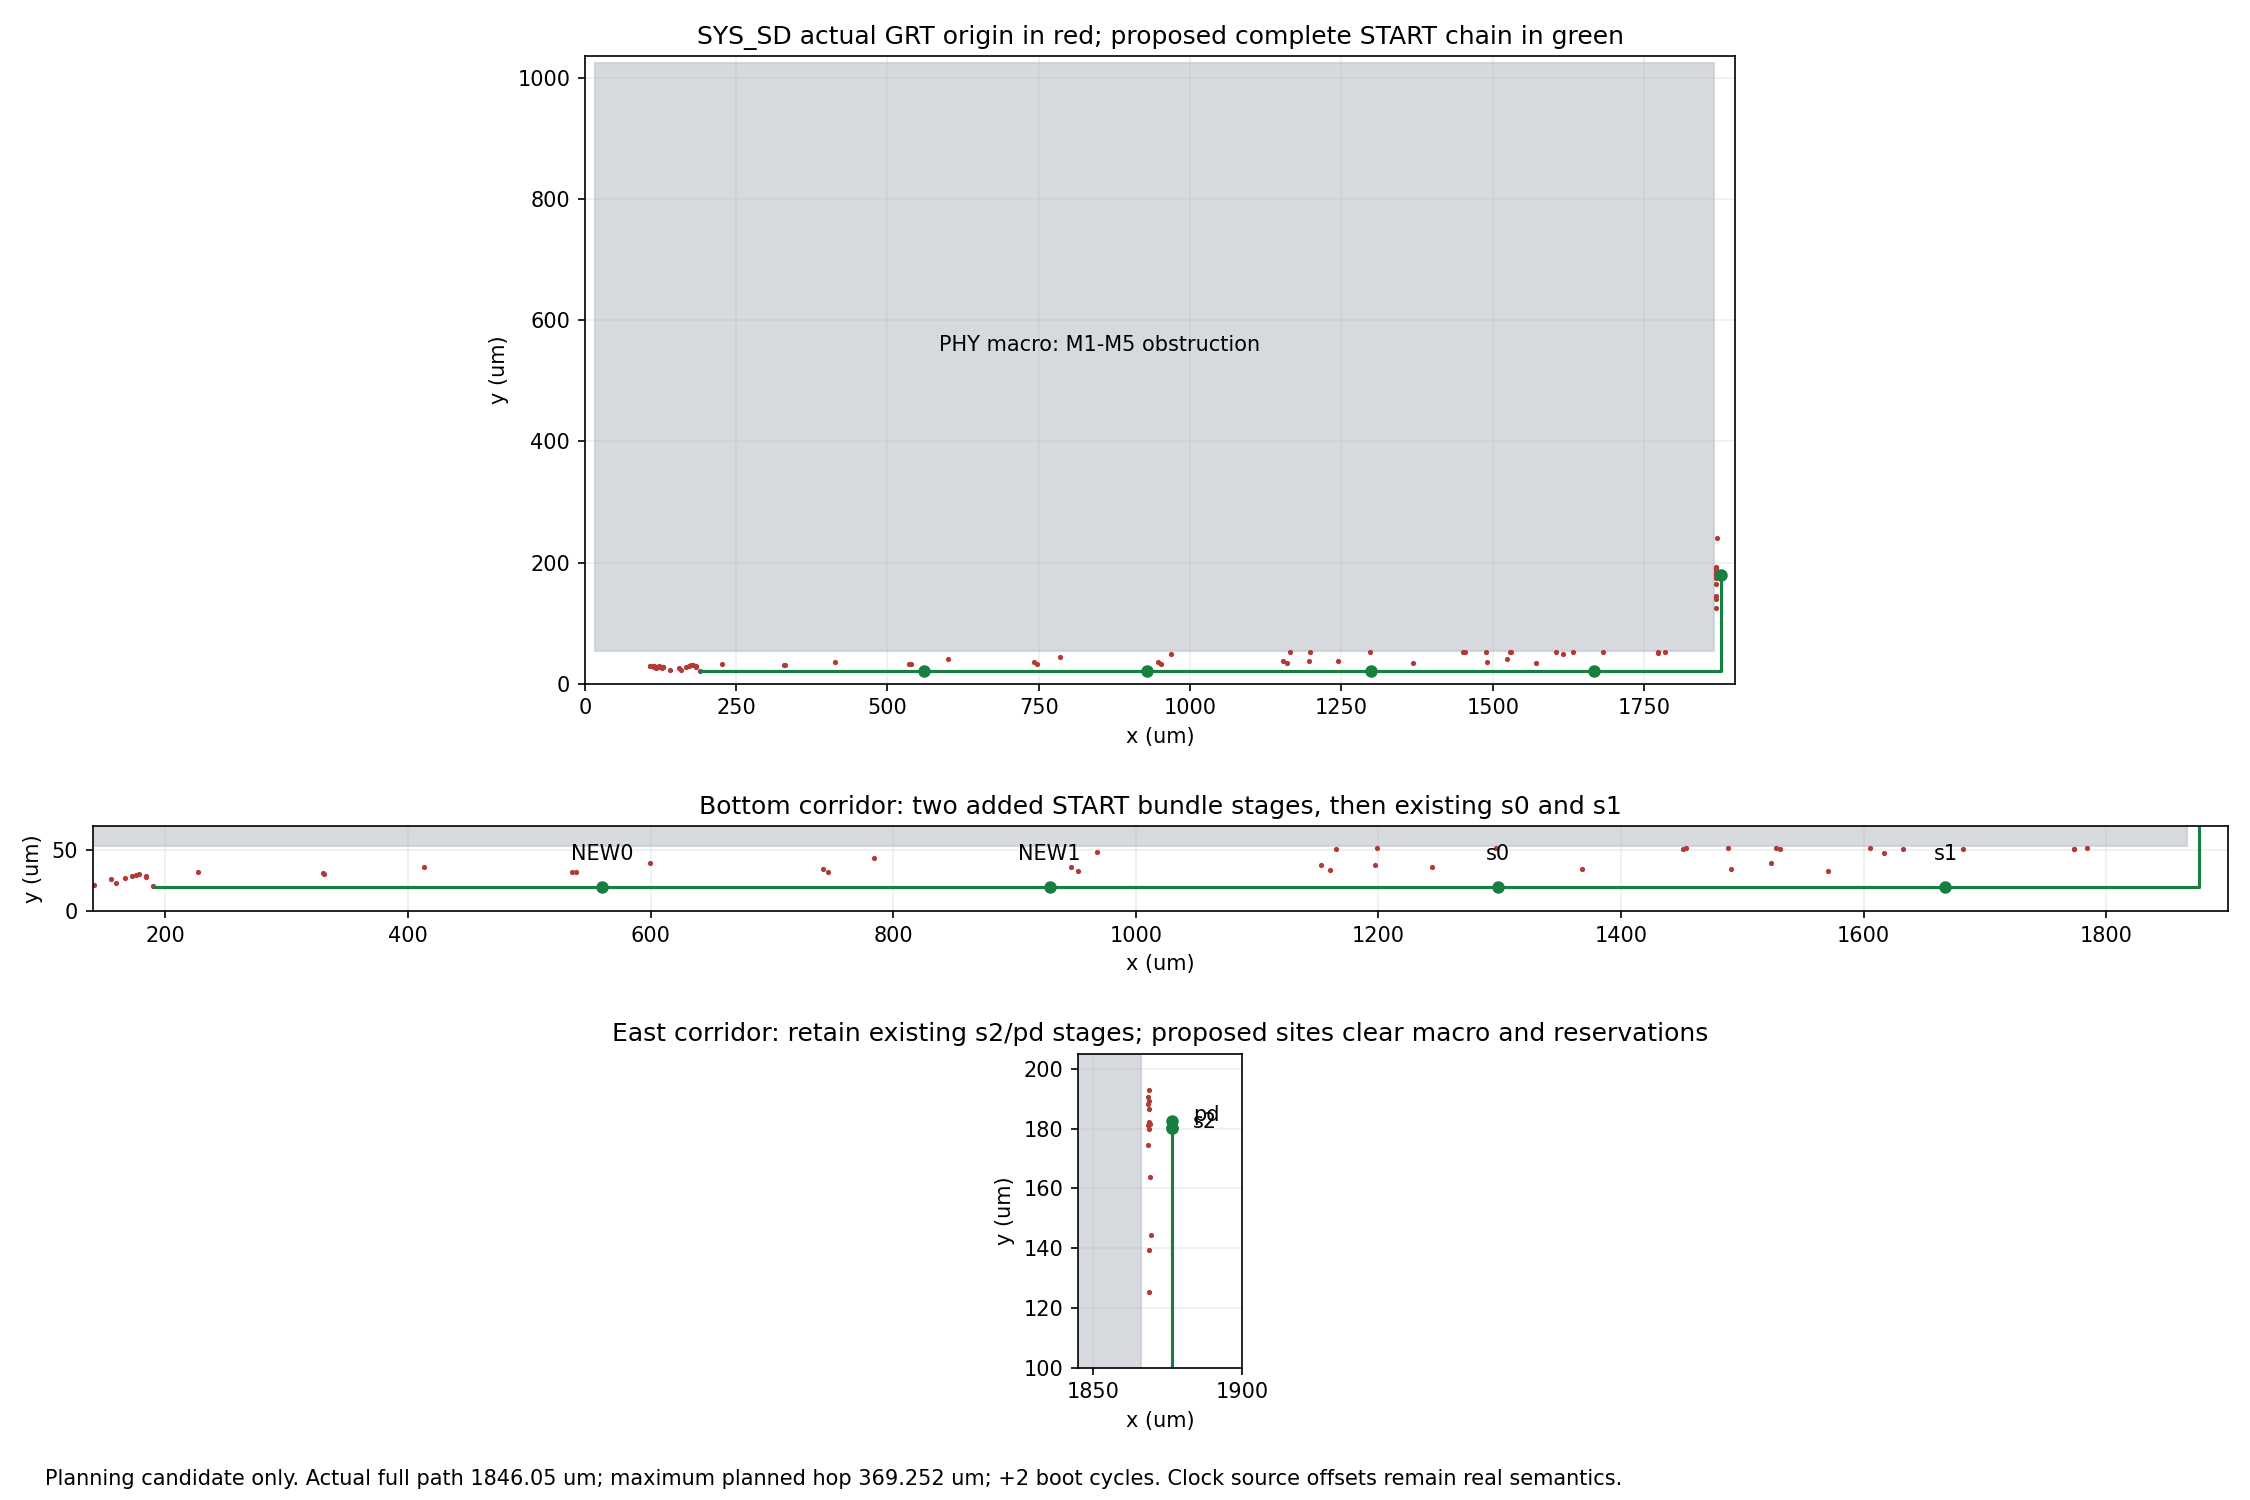
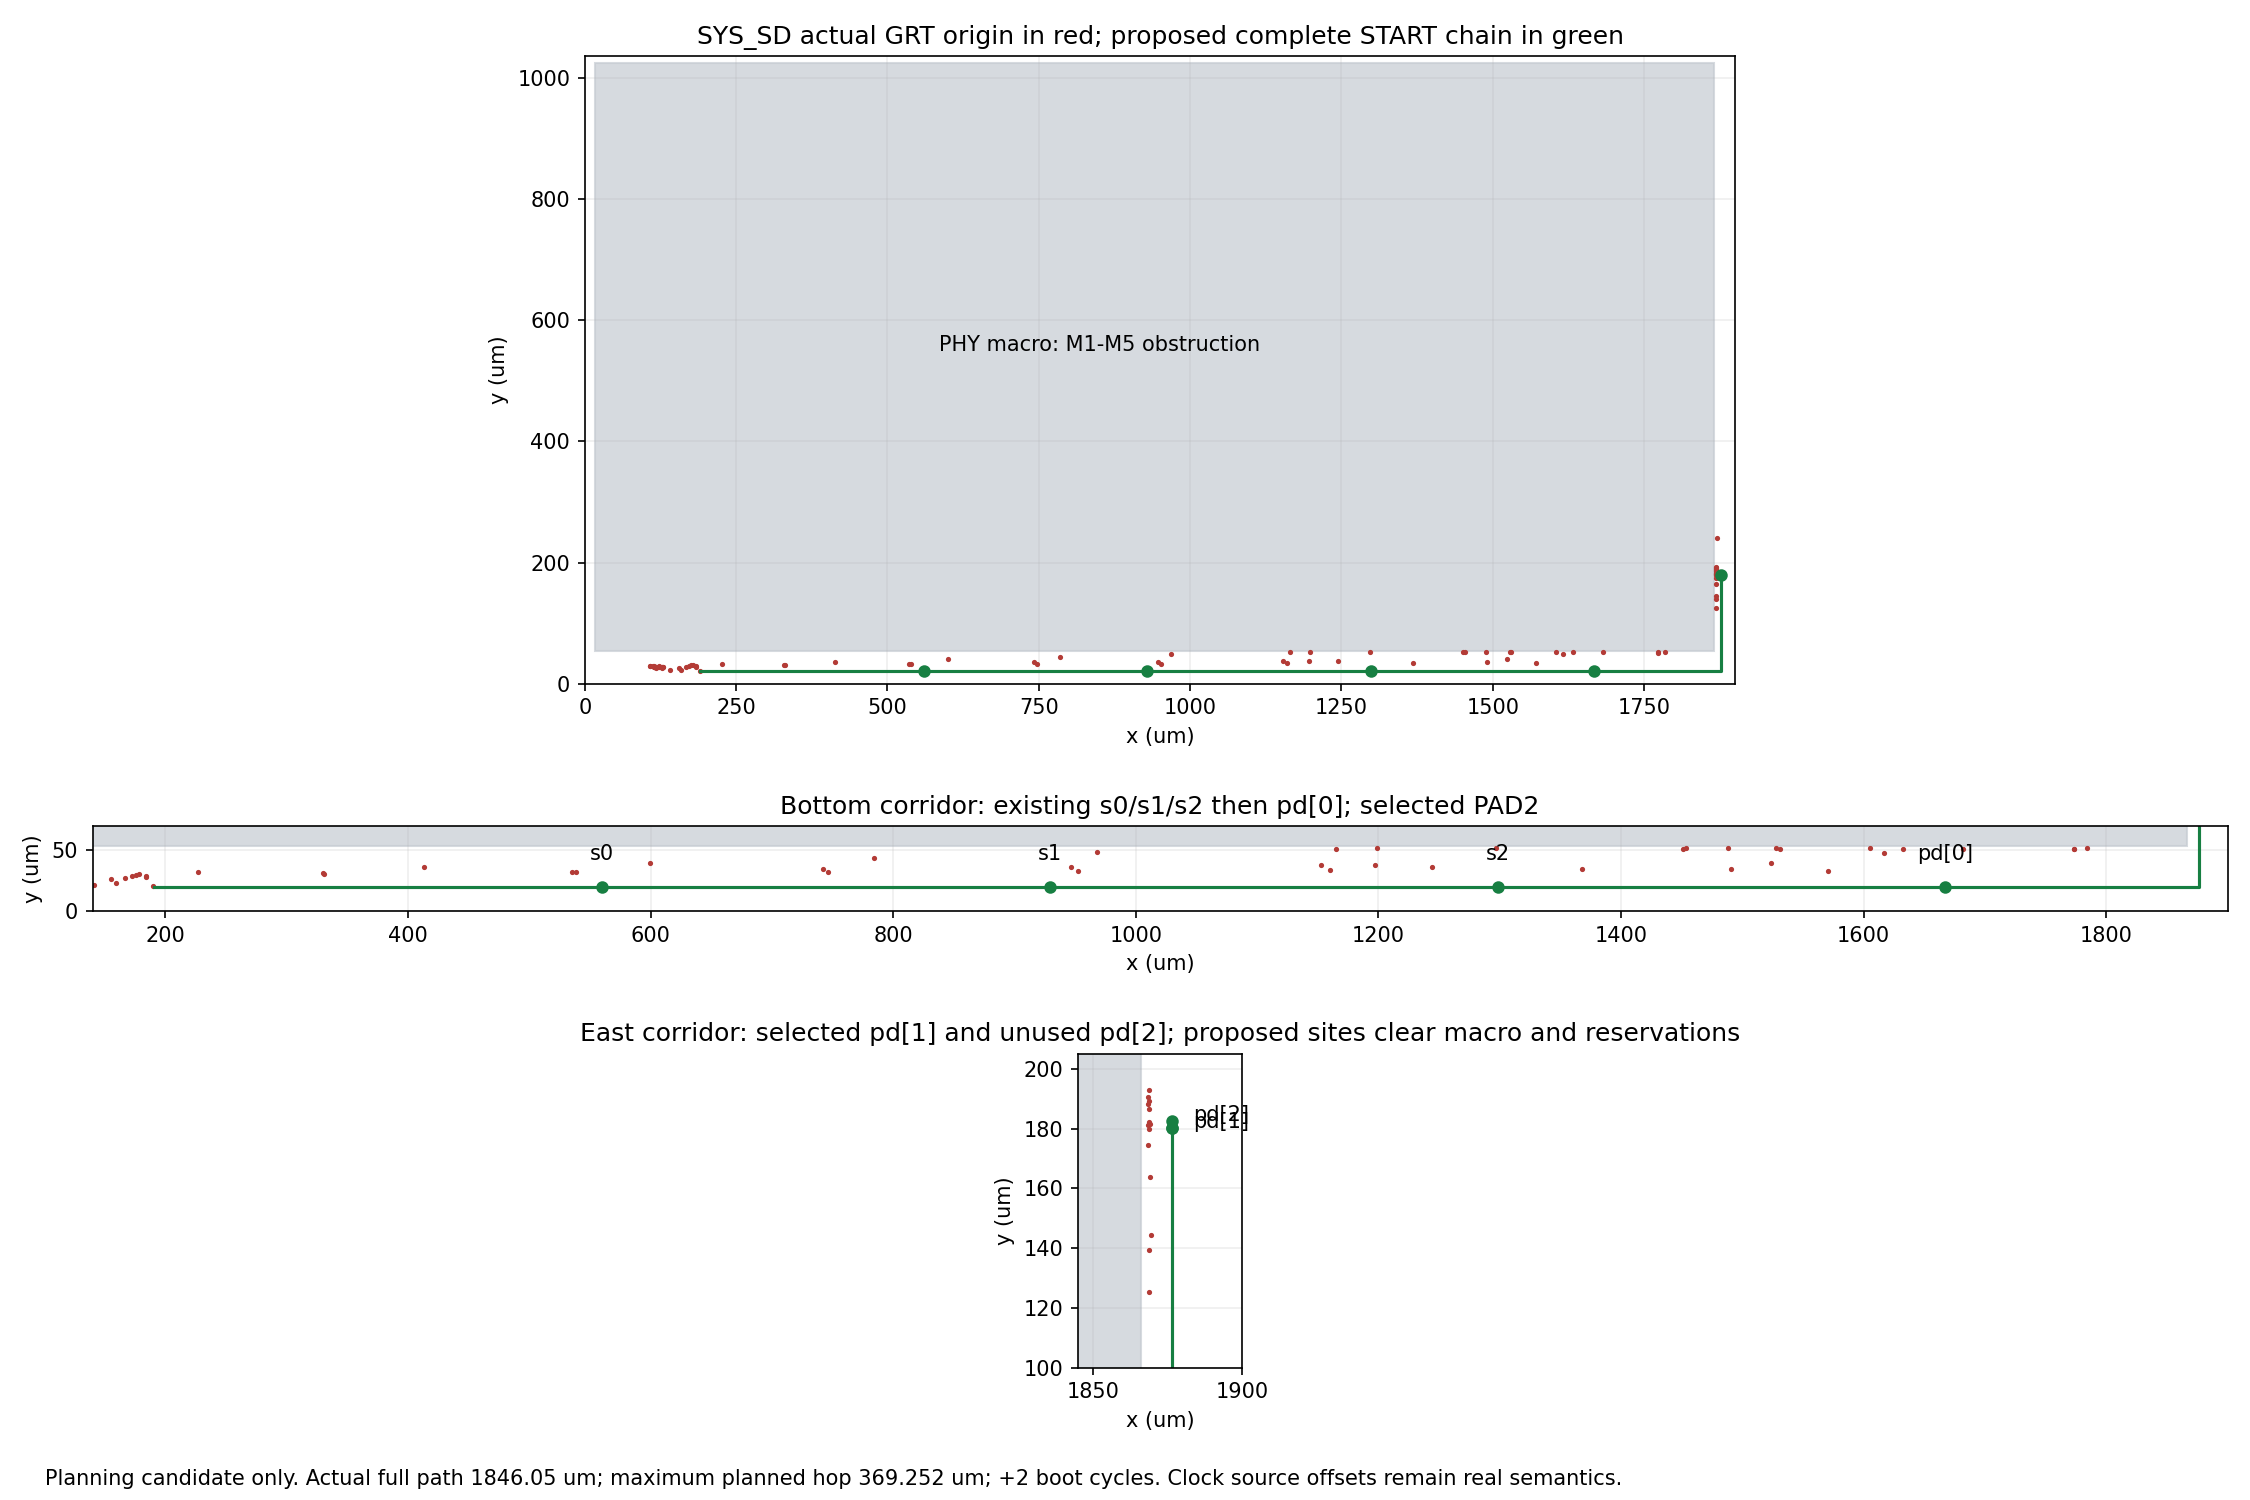
Reuse existing PAD2 origin form for SYS SD corridor
Keep original sf selection and reuse the proved arbitrary-PAD parameterization. Price two added pd registers and two effective boot cycles; KV owns CA/K and phase adoption.

diff --git a/results/geometry_forms_1106/sd_origin_render.py b/results/geometry_forms_1106/sd_origin_render.py
@@ -14,14 +14,14 @@ for ax in axs:
   x,y,X,Y=q['rect'];ax.plot((x+X)/2,(y+Y)/2,'.',color='#b33b36',ms=3)
  for p in c['hop_paths_um']:
   ax.plot([q[0] for q in p],[q[1] for q in p],color='#177f42',lw=1.5)
- pts=c['points_um']+[c['proposed_s2_um']]
+ pts=c['points_um']+[c['proposed_pd1_um']]
  for j,(x,y) in enumerate(pts):ax.plot(x,y,'o',color='#177f42',ms=5)
  ax.set_aspect('equal');ax.grid(alpha=.2);ax.set_xlabel('x (um)');ax.set_ylabel('y (um)')
 axs[0].set(xlim=(0,1900.8),ylim=(0,1036.8),title='SYS_SD actual GRT origin in red; proposed complete START chain in green')
 axs[0].text(850,550,'PHY macro: M1-M5 obstruction',ha='center')
-axs[1].set(xlim=(140,1900),ylim=(0,70),title='Bottom corridor: two added START bundle stages, then existing s0 and s1')
-for j,(x,y) in enumerate(c['points_um']):axs[1].annotate(['NEW0','NEW1','s0','s1'][j],(x,y),xytext=(0,13),textcoords='offset points',ha='center')
-axs[2].set(xlim=(1845,1900),ylim=(100,205),title='East corridor: retain existing s2/pd stages; proposed sites clear macro and reservations')
-for name,p in [('s2',c['proposed_s2_um']),('pd',c['proposed_pd_um'])]:axs[2].annotate(name,p,xytext=(10,0),textcoords='offset points');axs[2].plot(*p,'o',color='#177f42',ms=5)
+axs[1].set(xlim=(140,1900),ylim=(0,70),title='Bottom corridor: existing s0/s1/s2 then pd[0]; selected PAD2')
+for j,(x,y) in enumerate(c['points_um']):axs[1].annotate(['s0','s1','s2','pd[0]'][j],(x,y),xytext=(0,13),textcoords='offset points',ha='center')
+axs[2].set(xlim=(1845,1900),ylim=(100,205),title='East corridor: selected pd[1] and unused pd[2]; proposed sites clear macro and reservations')
+for name,p in [('pd[1]',c['proposed_pd1_um']),('pd[2]',c['unused_pd2_um'])]:axs[2].annotate(name,p,xytext=(10,0),textcoords='offset points');axs[2].plot(*p,'o',color='#177f42',ms=5)
 fig.text(.02,.01,'Planning candidate only. Actual full path 1846.05 um; maximum planned hop 369.252 um; +2 boot cycles. Clock source offsets remain real semantics.',fontsize=10)
 fig.tight_layout(rect=(0,.03,1,1));fig.savefig(base/'sd_origin_review.png',dpi=150)

diff --git a/results/geometry_forms_1106/sd_origin_prepare.py b/results/geometry_forms_1106/sd_origin_prepare.py
@@ -10,18 +10,21 @@ for q in t['clock']['landing_contract']['collector_tree']['relays']:
  p=q['xy'];r['reset_relay:'+q['name']]=g.grow([*p,*p],2.16)
 macro=[17.28,54,1866.24,1026]
 a=g.prepare_chain([190.56,19.98],[1876.5,180.09],t['outline_um'],[g.grow(macro,5.0)],4,site_boxes=list(r.values()),reach=405)
-a['stage_roles']=['new START epoch/control relay0','new START epoch/control relay1','existing origin s0','existing origin s1']
-a['endpoint_role']='existing origin s2; existing pd should remain local with same stage/phase'
+a['stage_roles']=['existing origin s0','existing origin s1','existing origin s2','origin pd[0]']
+a['endpoint_role']='origin pd[1], selected by PAD2; unused pd[2] remains local'
 a['input']='original sf/strap selected s_in -> complete START epoch/control bundle before existing s0; retain original negedge sf selection/reset phase'
 a['added_boot_cycles']=2
 a['added_cycles']=2
-a['note']='Two added complete START epoch/control stages explicitly priced; original downstream sampling stages retained'
+a['note']='Use existing arbitrary-PAD origin form with PADW2/PAD2; two added pd registers, +2 effective boot cycles'
 a['route_macro_clearance_um']=5.0
 a['source_clock_semantics']='preserve existing named receiving domains including clk_t5 source_latency -80ps; no clock relaxation'
 a['reservation_count']=len(r)
 a['actual_old_sites_um']={'s0':[107.136,29.43],'s1':[1868.4,125.01],'s2':[1868.4,179.82],'pd':[1868.454,181.44]}
-a['proposed_s2_um']=[1876.5,180.09]
-a['proposed_pd_um']=[1876.5,182.52]
-a['scope']='candidate only: KV owner implements RTL bundle/phase/ledger proof before adoption; no current plan mutation'
+a['proposed_pd1_um']=[1876.5,180.09]
+a['sf_site_um']=[189.0,20.25]
+a['padw']=2
+a['selected_pad']=2
+a['unused_pd2_um']=[1876.5,182.52]
+a['scope']='candidate only: KV owner implements CA leaf PAD/K phase/ledger proof before adoption; no current plan mutation'
 (base/'sd_origin_candidate.json').write_text(json.dumps(a,indent=2)+'\n')
 print(json.dumps(a,indent=2))

diff --git a/results/geometry_forms_1106/sd_origin_review.md b/results/geometry_forms_1106/sd_origin_review.md
@@ -11,3 +11,5 @@ Candidate internal sites in order: added0[559.764,19.98], added1[928.962,19.98],
 sd_origin_review.png was rendered and directly inspected. The chain runs through the bottom corridor then turns north through the east corridor; endpoints also clear declared reservations. This is a planning candidate before the source event and mapped trial, not an adopted plan.
 
 Separate CDC coordinate query: native rd_bin[0] FF bbox[1889.622,129.06,1891.026,129.33]; p_tx_d[56] FF bbox[1808.514,51.3,1809.594,51.57]. Center Manhattan distance159.030um. This is a distinct timing problem owned by KV. A similarly named rd_bin...__50 instance is a TIEHI, not the queried FF.
+
+Superseding source choice: KV owner reuses the already-proved arbitrary-PAD origin implementation, raises selected PAD0 to PAD2 with PADW2, and owns CA leaf PAD/K rebasing plus proof. Geometry roles are now existing s0 at559.764,19.98; s1 at928.962,19.98; s2 at1298.214,19.98; pd[0] at1667.412,19.98; selected pd[1] at1876.5,180.09. Unused pd[2] has a separate local bay1876.5,182.52. Original sf remains at189,20.25. This adds two physical pd registers and two effective boot cycles using the existing RTL parameterization; the prior new pre-stage proposal is superseded. Planned hop lengths/reservation checks stay unchanged.
